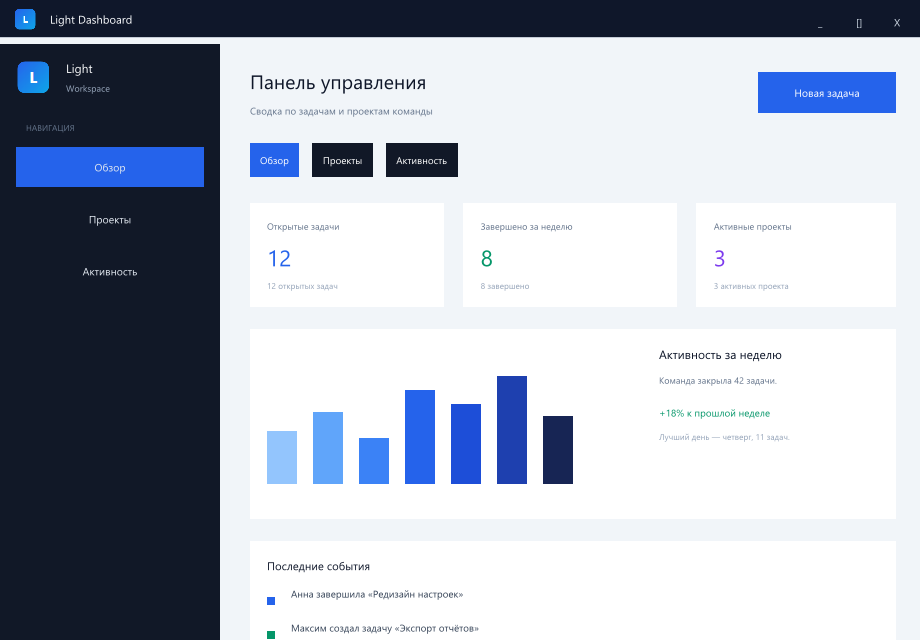
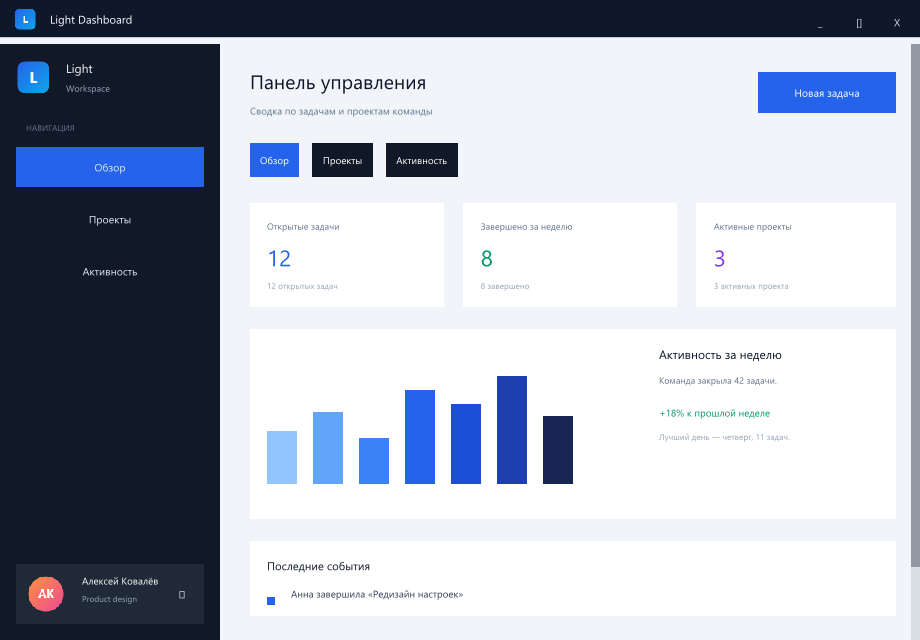
fix(dashboard): constrain layout and add profile editor

Changed region(s): [[0.9739, 0.0625, 1.0, 0.9062], [0.2739, 0.9688, 0.5174, 1.0], [0.0304, 0.875, 0.1826, 0.9688]]

diff --git a/examples/dashboard/templates/dashboard.html b/examples/dashboard/templates/dashboard.html
@@ -8,7 +8,7 @@
             <button @click="close()" type="button" width="32" height="26" font-size="14" background="#0F172A" border-color="#0F172A" font-color="#CBD5E1">X</button>
         </div>
     </titlebar>
-    <div direction="horizontal" flex-grow="1" background="#F1F5F9">
+    <div direction="horizontal" flex-grow="1" flex-shrink="1" background="#F1F5F9">
         <div direction="vertical" width="220" padding="16" background="#111827">
             <div direction="horizontal" align-items="center" margin-bottom="22">
                 <image src="assets/logo.png" width="34" height="34" alt="Light" />
@@ -17,19 +17,23 @@
                     <div font-color="#94A3B8" font-size="12">Workspace</div>
                 </div>
             </div>
-            <div font-color="#64748B" font-size="11" margin-bottom="8" margin-left="10">НАВИГАЦИЯ</div>
-            <button @click="show_tab('overview')" type="button" width="100%" height="40" margin-bottom="6" padding="10" font-size="14" :background="overview_bg" :border-color="overview_bg" font-color="#E2E8F0">Обзор</button>
-            <button @click="show_tab('projects')" type="button" width="100%" height="40" margin-bottom="6" padding="10" font-size="14" :background="projects_bg" :border-color="projects_bg" font-color="#E2E8F0">Проекты</button>
-            <button @click="show_tab('activity')" type="button" width="100%" height="40" margin-bottom="6" padding="10" font-size="14" :background="activity_bg" :border-color="activity_bg" font-color="#E2E8F0">Активность</button>
-            <div flex-grow="1" />
-            <div direction="horizontal" align-items="center" padding="10" background="#1F2937" border-radius="8">
+            <div direction="vertical" flex-grow="1" flex-shrink="1" overflow-y="auto">
+                <div font-color="#64748B" font-size="11" margin-bottom="8" margin-left="10">НАВИГАЦИЯ</div>
+                <button @click="show_tab('overview')" type="button" width="100%" height="40" margin-bottom="6" padding="10" font-size="14" :background="overview_bg" :border-color="overview_bg" font-color="#E2E8F0">Обзор</button>
+                <button @click="show_tab('projects')" type="button" width="100%" height="40" margin-bottom="6" padding="10" font-size="14" :background="projects_bg" :border-color="projects_bg" font-color="#E2E8F0">Проекты</button>
+                <button @click="show_tab('activity')" type="button" width="100%" height="40" margin-bottom="6" padding="10" font-size="14" :background="activity_bg" :border-color="activity_bg" font-color="#E2E8F0">Активность</button>
+            </div>
+            <div direction="horizontal" align-items="center" padding="10" background="#1F2937" border-radius="8" margin-top="12">
                 <button @click="toggle_avatar" type="button" width="40" height="40" padding="0" background="#1F2937" border-color="#1F2937">
                     <image v-if="alternate_avatar" src="assets/logo.png" width="36" height="36" alt="Аватар" />
                     <image v-else src="assets/avatar.png" width="36" height="36" alt="Алексей Ковалёв" />
                 </button>
-                <div direction="vertical" margin-left="10">
-                    <text v-model="profile_name" width="126" height="30" font-size="13" background="#111827" border-color="#374151" font-color="#F9FAFB" />
-                    <div font-color="#94A3B8" font-size="11">Product design</div>
+                <div direction="horizontal" align-items="center" flex-grow="1" margin-left="10">
+                    <div direction="vertical" flex-grow="1">
+                        <div font-color="#F9FAFB" font-size="13">{{ profile_name }}</div>
+                        <div font-color="#94A3B8" font-size="11">Product design</div>
+                    </div>
+                    <button @click="open_profile_modal" type="button" width="24" height="24" padding="0" background="#1F2937" border-color="#1F2937" font-color="#CBD5E1" font-size="14">✎</button>
                 </div>
             </div>
         </div>
@@ -176,6 +180,31 @@
             <div direction="horizontal" width="100%" justify-content="end" margin-top="20">
                 <button @click="close_task_modal" type="button" width="104" height="38" margin-right="8" background="#F1F5F9" border-color="#CBD5E1" font-color="#334155">Отмена</button>
                 <button @click="create_task" :disabled="is_new_task_empty" type="button" width="132" height="38" background="#2563EB" border-color="#2563EB" font-color="#FFFFFF">Создать задачу</button>
+            </div>
+        </div>
+    </div>
+    <div v-if="profile_modal_open" position="absolute" width="100%" height="100%" background="#0F172ACC" z="100">
+        <div direction="vertical" position="absolute" position-x="center" position-y="center" width="430" padding="22" background="#FFFFFF" border-color="#E2E8F0" border-size="1" border-radius="12" z="101">
+            <div direction="horizontal" align-items="center" margin-bottom="16">
+                <div font-color="#0F172A" font-size="19">Профиль</div>
+                <button @click="close_profile_modal" type="button" position-x="right" width="32" height="30" padding="0" font-size="17" background="#F1F5F9" border-color="#E2E8F0" font-color="#334155">X</button>
+            </div>
+            <div font-color="#475569" font-size="12" margin-bottom="6">Имя</div>
+            <text v-model="profile_draft" width="100%" height="38" font-size="14" placeholder="Как вас зовут?" />
+            <div direction="horizontal" align-items="center" margin-top="16">
+                <button @click="toggle_avatar" type="button" width="44" height="44" padding="0" background="#F1F5F9" border-color="#E2E8F0">
+                    <image v-if="alternate_avatar" src="assets/logo.png" width="36" height="36" alt="Текущий аватар" />
+                    <image v-else src="assets/avatar.png" width="36" height="36" alt="Текущий аватар" />
+                </button>
+                <div direction="vertical" margin-left="12" flex-grow="1">
+                    <div font-color="#0F172A" font-size="13">Аватар</div>
+                    <div font-color="#64748B" font-size="11">Нажмите, чтобы сменить</div>
+                </div>
+                <button @click="toggle_avatar" type="button" width="126" height="34" background="#F1F5F9" border-color="#CBD5E1" font-color="#334155" font-size="12">Сменить аватар</button>
+            </div>
+            <div direction="horizontal" width="100%" justify-content="end" margin-top="20">
+                <button @click="close_profile_modal" type="button" width="104" height="38" margin-right="8" background="#F1F5F9" border-color="#CBD5E1" font-color="#334155">Отмена</button>
+                <button @click="save_profile" :disabled="is_profile_draft_empty" type="button" width="104" height="38" background="#2563EB" border-color="#2563EB" font-color="#FFFFFF">Сохранить</button>
             </div>
         </div>
     </div>

diff --git a/examples/dashboard/src/main.rs b/examples/dashboard/src/main.rs
@@ -16,6 +16,10 @@ struct Dashboard {
     #[default(false)]
     alternate_avatar: bool,
     #[default(false)]
+    profile_modal_open: bool,
+    #[default(String::new())]
+    profile_draft: String,
+    #[default(false)]
     modal_open: bool,
     #[default(String::new())]
     new_task: String,
@@ -87,6 +91,30 @@ impl Dashboard {
 
     fn toggle_avatar(&self) {
         self.set_alternate_avatar(!self.alternate_avatar());
+    }
+
+    fn open_profile_modal(&self) {
+        self.set_profile_draft(self.profile_name());
+        self.set_profile_modal_open(true);
+    }
+
+    fn close_profile_modal(&self) {
+        self.set_profile_modal_open(false);
+        self.set_profile_draft(String::new());
+    }
+
+    fn is_profile_draft_empty(&self) -> bool {
+        self.profile_draft().trim().is_empty()
+    }
+
+    fn save_profile(&self) {
+        let name = self.profile_draft().trim().to_owned();
+        if name.is_empty() {
+            return;
+        }
+        self.set_profile_name(name);
+        self.set_profile_modal_open(false);
+        self.set_profile_draft(String::new());
     }
 
     fn open_task_modal(&self) {
